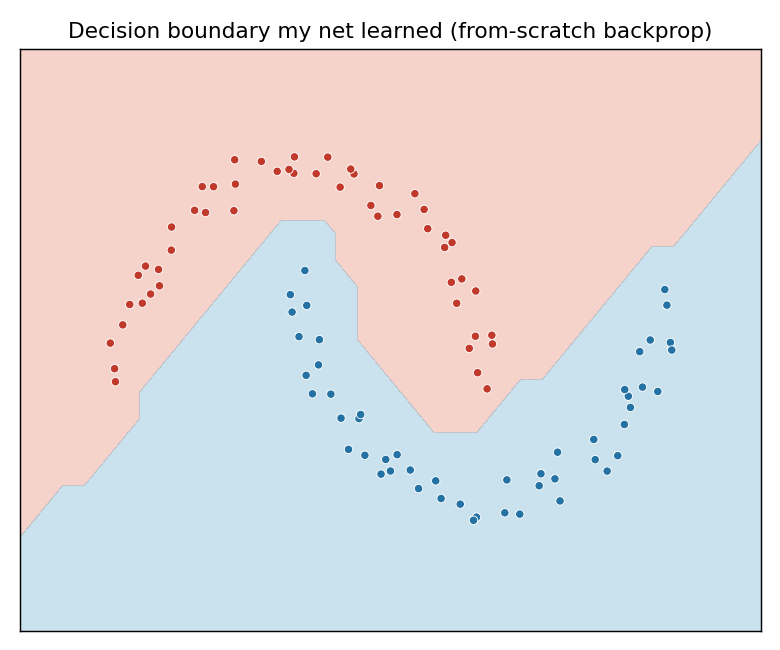
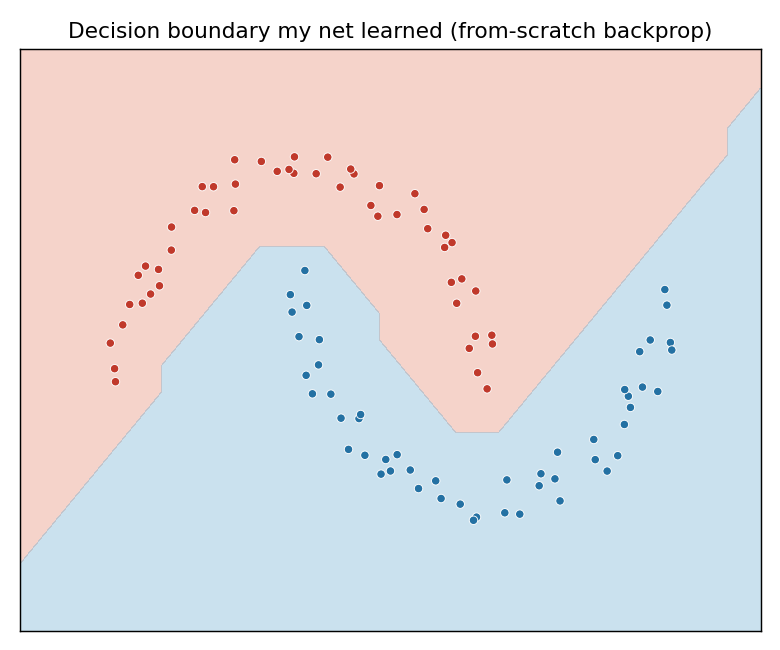
Add gradient verification, exp/log ops, fan-in init; prove backprop in CI
- gradcheck.py: every op and random graphs checked against finite differences
- engine: add exp/log, guard fractional powers of negative bases
- nn: Module.zero_grad and 1/sqrt(fan-in) weight init to avoid tanh saturation
- train: 100 epochs to reach 100% with the rescaled init
- CI: run gradcheck on every push

diff --git a/gradcheck.py b/gradcheck.py
@@ -1,0 +1,128 @@
+"""
+gradcheck.py: prove the engine's gradients are correct.
+
+Backpropagation gives us gradients analytically, by applying the chain rule
+over the graph (that is all engine.py does). There is a second, completely
+independent way to get a gradient: nudge an input by a tiny amount and measure
+how much the output moves. That is numerical differentiation, and it needs
+nothing but the forward pass.
+
+If the two agree, the backward rules are right. This checks every operation,
+and randomly-built expression graphs, against central finite differences. It
+runs in CI on every push, so "the gradients are correct" is something this repo
+verifies rather than asks you to take on faith.
+"""
+
+import random
+
+from engine import Value
+
+# A fixed seed makes the whole check deterministic: the same inputs, and so the
+# same error numbers, every run and on every machine.
+random.seed(1337)
+
+
+def max_rel_error(make_fn, n_inputs, sampler, trials=300, eps=1e-6):
+    """Largest relative error between analytic and numerical gradients.
+
+    make_fn: returns the function for one trial. It must be deterministic once
+             returned, so the analytic pass and both numerical passes evaluate
+             the *same* graph (otherwise finite differences are meaningless).
+    sampler: returns one random input value, drawn from a region where the op
+             is smooth (e.g. positive numbers for log).
+    """
+    worst = 0.0
+    for _ in range(trials):
+        fn = make_fn()
+        xs = [sampler() for _ in range(n_inputs)]
+
+        # analytic gradient, straight from backprop
+        inputs = [Value(x) for x in xs]
+        fn(inputs).backward()
+        analytic = [v.grad for v in inputs]
+
+        # numerical gradient, one input at a time: (f(x+eps) - f(x-eps)) / 2eps
+        for k in range(n_inputs):
+            hi, lo = xs[:], xs[:]
+            hi[k] += eps
+            lo[k] -= eps
+            numeric = (fn([Value(v) for v in hi]).data
+                       - fn([Value(v) for v in lo]).data) / (2 * eps)
+            denom = max(1.0, abs(numeric))
+            worst = max(worst, abs(analytic[k] - numeric) / denom)
+    return worst
+
+
+def check(name, make_fn, n_inputs, sampler, tol=1e-5):
+    err = max_rel_error(make_fn, n_inputs, sampler)
+    ok = err < tol
+    print(f"  {name:26s} max rel error {err:.2e}   [{'ok' if ok else 'FAIL'}]")
+    if not ok:
+        raise AssertionError(f"{name}: gradient error {err:.2e} exceeds {tol:.0e}")
+
+
+# Samplers that keep inputs inside each op's well-defined, smooth region.
+def real_line():
+    return random.uniform(-2.0, 2.0)
+
+def positive():            # log, division, fractional powers
+    return random.uniform(0.1, 3.0)
+
+def off_the_kink():        # relu is non-differentiable exactly at 0; stay clear
+    x = random.uniform(0.2, 2.0)
+    return x if random.random() < 0.5 else -x
+
+
+def make_random_graph(n_inputs):
+    """Return a deterministic random expression over n_inputs.
+
+    The op sequence is chosen once, here, so the returned function always builds
+    the same graph. Each step folds in one input; the square and exp paths act
+    on a single bounded input rather than the running total, so the value can't
+    compound into an overflow while still touching every backward rule.
+    """
+    ops = [random.choice(("add", "mul", "tanh", "square", "exp"))
+           for _ in range(n_inputs - 1)]
+
+    def fn(inputs):
+        v = inputs[0]
+        for x, op in zip(inputs[1:], ops):
+            if op == "add":
+                v = v + x
+            elif op == "mul":
+                v = (v * x).tanh()        # squash the product to stay bounded
+            elif op == "tanh":
+                v = (v + x).tanh()
+            elif op == "square":
+                v = v + x ** 2            # x is a bounded leaf, so x**2 is small
+            elif op == "exp":
+                v = v + x.tanh().exp()    # exp of a value in (-1, 1), never large
+        return v
+
+    return fn
+
+
+def static(fn):
+    """Wrap a fixed function as a make_fn factory."""
+    return lambda: fn
+
+
+def main():
+    print("checking analytic gradients against central finite differences\n")
+    check("add",                static(lambda v: v[0] + v[1]), 2, real_line)
+    check("mul",                static(lambda v: v[0] * v[1]), 2, real_line)
+    check("sub",                static(lambda v: v[0] - v[1]), 2, real_line)
+    check("pow (integer)",      static(lambda v: v[0] ** 3), 1, real_line)
+    check("pow (fractional)",   static(lambda v: v[0] ** 0.5), 1, positive)
+    check("div",                static(lambda v: v[0] / v[1]), 2, positive)
+    check("tanh",               static(lambda v: v[0].tanh()), 1, real_line)
+    check("relu",               static(lambda v: v[0].relu()), 1, off_the_kink)
+    check("exp",                static(lambda v: v[0].exp()), 1, real_line)
+    check("log",                static(lambda v: v[0].log()), 1, positive)
+    check("reused input (a*a)", static(lambda v: v[0] * v[0]), 1, real_line)
+    check("random graphs",      lambda: make_random_graph(6), 6, real_line)
+    print("\nall gradients verified against numerical differentiation")
+
+
+if __name__ == "__main__":
+    main()

diff --git a/engine.py b/engine.py
@@ -56,6 +56,11 @@ class Value:
     def __pow__(self, power):
         if not isinstance(power, (int, float)):
             raise TypeError("only int/float powers are supported")
+        # A fractional power of a negative base is complex, not real. Python
+        # returns a complex number silently, which would poison the rest of the
+        # graph, so refuse it outright instead.
+        if self.data < 0 and not float(power).is_integer():
+            raise ValueError("fractional power of a negative base is not real")
         out = Value(self.data ** power, (self,), f"**{power}")
 
         def _backward():
@@ -79,8 +84,30 @@ class Value:
         out = Value(0.0 if self.data < 0 else self.data, (self,), "relu")
 
         def _backward():
-            # gradient flows only where the input was positive
+            # gradient flows only where the input was positive. relu has a
+            # kink at exactly 0; we take the subgradient 0 there, which is a
+            # standard, valid choice.
             self.grad += (out.data > 0) * out.grad
+        out._backward = _backward
+        return out
+
+    def exp(self):
+        e = math.exp(self.data)
+        out = Value(e, (self,), "exp")
+
+        def _backward():
+            # d(e^a)/da = e^a, which is just the output value
+            self.grad += e * out.grad
+        out._backward = _backward
+        return out
+
+    def log(self):
+        # natural log; needed for softmax / cross-entropy losses
+        out = Value(math.log(self.data), (self,), "log")
+
+        def _backward():
+            # d(ln a)/da = 1/a
+            self.grad += (1.0 / self.data) * out.grad
         out._backward = _backward
         return out
 
@@ -98,7 +125,12 @@ class Value:
 
     # ---- the heart of it: backpropagation ------------------------------
     def backward(self):
-        """Fill in .grad for every Value that fed into this one."""
+        """Fill in .grad for every Value that fed into this one.
+
+        Gradients accumulate (+=), so calling this twice without resetting
+        .grad to zero in between will double-count. Training loops reset the
+        gradients each step before calling backward (see Module.zero_grad).
+        """
         # We must process nodes in reverse order of how they were built,
         # so a node's gradient is finalized before we push it to its inputs.
         # That ordering is a topological sort of the graph.

diff --git a/nn.py b/nn.py
@@ -11,12 +11,26 @@ import random
 from engine import Value
 
 
-class Neuron:
+class Module:
+    """Base class: anything with parameters can reset their gradients."""
+
+    def zero_grad(self):
+        for p in self.parameters():
+            p.grad = 0.0
+
+    def parameters(self):
+        return []
+
+
+class Neuron(Module):
     """One neuron: weighted sum of inputs + bias, then a nonlinearity."""
 
     def __init__(self, n_inputs, nonlin=True):
-        # start with small random weights and zero bias
-        self.w = [Value(random.uniform(-1, 1)) for _ in range(n_inputs)]
+        # Scale the initial weights by 1/sqrt(fan-in) so the weighted sum
+        # starts near unit variance instead of saturating tanh in its flat
+        # tails (where gradients vanish and learning stalls).
+        scale = n_inputs ** -0.5
+        self.w = [Value(random.uniform(-1, 1) * scale) for _ in range(n_inputs)]
         self.b = Value(0.0)
         self.nonlin = nonlin
 
@@ -29,7 +43,7 @@ class Neuron:
         return self.w + [self.b]
 
 
-class Layer:
+class Layer(Module):
     """A row of neurons, all seeing the same inputs."""
 
     def __init__(self, n_inputs, n_outputs, nonlin=True):
@@ -43,7 +57,7 @@ class Layer:
         return [p for n in self.neurons for p in n.parameters()]
 
 
-class MLP:
+class MLP(Module):
     """A multi-layer perceptron: layers stacked back to back."""
 
     def __init__(self, n_inputs, layer_sizes):

diff --git a/train.py b/train.py
@@ -63,13 +63,12 @@ def loss():
 #   forward  -> compute loss
 #   backward -> compute gradient of loss w.r.t. every weight
 #   step     -> nudge each weight a little against its gradient
-EPOCHS = 50
+EPOCHS = 100
 for k in range(EPOCHS):
     total_loss, acc = loss()
 
     # reset gradients, then backpropagate
-    for p in model.parameters():
-        p.grad = 0.0
+    model.zero_grad()
     total_loss.backward()
 
     # gradient descent with a simple decaying learning rate
@@ -77,7 +76,7 @@ for k in range(EPOCHS):
     for p in model.parameters():
         p.data -= lr * p.grad
 
-    if k % 10 == 0 or k == EPOCHS - 1:
+    if k % 20 == 0 or k == EPOCHS - 1:
         print(f"step {k:3d}   loss {total_loss.data:.4f}   acc {acc*100:.0f}%")
 
 

diff --git a/README.md b/README.md
@@ -1,9 +1,12 @@
 # Neural Network From Scratch
 
 A working neural network and the automatic-differentiation engine that powers it,
-written in pure Python. No PyTorch, no TensorFlow, no numpy in the core. About 200
-lines total. It trains, with real backpropagation, on a problem a straight line
-can't solve, and it gets it 100% right.
+written in pure Python. No PyTorch, no TensorFlow, no numpy in the core. The engine
+and the network are about 230 lines together. It trains, with real backpropagation,
+on a problem a straight line can't solve, and it gets it 100% right. And every
+gradient in the engine is checked against numerical differentiation, so "the
+backprop is correct" is something this repo verifies, not something it asks you to
+take on trust (see [Proving the gradients](#proving-the-gradients)).
 
 ![Decision boundary the network learned](decision_boundary.png)
 
@@ -17,13 +20,14 @@ Not to compete with the big frameworks. I wanted to understand, end to end, what
 backpropagation, gradient step) is the same one behind the models everyone talks
 about. This is the small, readable version, where you can see every piece.
 
-## The three files
+## The files
 
 | File | What it is |
 |------|-----------|
-| `engine.py` | The autograd engine. A `Value` wraps one number and remembers how it was computed, so `.backward()` walks the graph in reverse and gets the gradients via the chain rule. This is backpropagation. |
+| `engine.py` | The autograd engine. A `Value` wraps one number and remembers how it was computed, so `.backward()` walks the graph in reverse and gets the gradients via the chain rule. This is backpropagation. Ops: `+ - * /`, powers, `tanh`, `relu`, `exp`, `log`. |
 | `nn.py` | A neural network (Neuron, Layer, MLP) built on top of those `Value`s. Just weighted sums and a nonlinearity, repeated. |
 | `train.py` | Builds a two-moons dataset, trains the net, prints the loss falling and accuracy rising, and saves the decision-boundary image. |
+| `gradcheck.py` | Verifies every gradient in the engine against numerical differentiation. Runs in CI on every push. |
 
 ## Run it
 
@@ -36,15 +40,48 @@ python train.py
 Output:
 
 ```
-step   0   loss 0.77   acc 72%
-step  20   loss 0.06   acc 98%
-step  49   loss 0.02   acc 100%
+step   0   loss 0.9301   acc 73%
+step  40   loss 0.1534   acc 94%
+step  80   loss 0.0184   acc 100%
+step  99   loss 0.0105   acc 100%
 
 Saved decision_boundary.png
 ```
 
 The training itself needs no dependencies. numpy and matplotlib are only used to
 draw the picture.
+
+## Proving the gradients
+
+The whole point of this repo is that the backprop is *real*. So how do you know it's
+*correct*? There's a second, completely independent way to get a gradient: nudge an
+input a tiny bit and measure how much the output moves. That's numerical
+differentiation, and it needs nothing but the forward pass. If it agrees with what
+`.backward()` produced, the chain-rule code is right.
+
+`gradcheck.py` does exactly that for every operation and for randomly-generated
+expression graphs:
+
+```bash
+python gradcheck.py
+```
+
+```
+  add                        max rel error 3.04e-10   [ok]
+  mul                        max rel error 2.71e-10   [ok]
+  div                        max rel error 3.29e-10   [ok]
+  tanh                       max rel error 6.95e-11   [ok]
+  relu                       max rel error 8.23e-11   [ok]
+  exp                        max rel error 1.61e-10   [ok]
+  log                        max rel error 1.42e-10   [ok]
+  random graphs              max rel error 7.48e-10   [ok]
+
+all gradients verified against numerical differentiation
+```
+
+Karpathy's micrograd checks its gradients against PyTorch. This checks them against
+the definition of a derivative, no framework, just math. It runs in CI, so a change
+that breaks a gradient fails the build.
 
 ## What's actually happening
 
@@ -61,9 +98,10 @@ learned the shape of the data.
 ## Where to take it next
 
 Swap `tanh` for `relu` in `nn.py` and watch the boundary change. Make the data
-harder (more noise, a spiral instead of moons). The natural next step on this track
-is to grow the engine into a tiny character-level language model, which is the same
-idea pointed at text.
+harder (more noise, a spiral instead of moons). The engine already has `exp` and
+`log`, so the next real step is a softmax + cross-entropy loss, and from there a tiny
+character-level language model: the same idea pointed at text, on the same engine,
+with its gradients checked the same way.
 
 Built in the spirit of Andrej Karpathy's `micrograd`, as a way to learn how model
 training works from first principles.